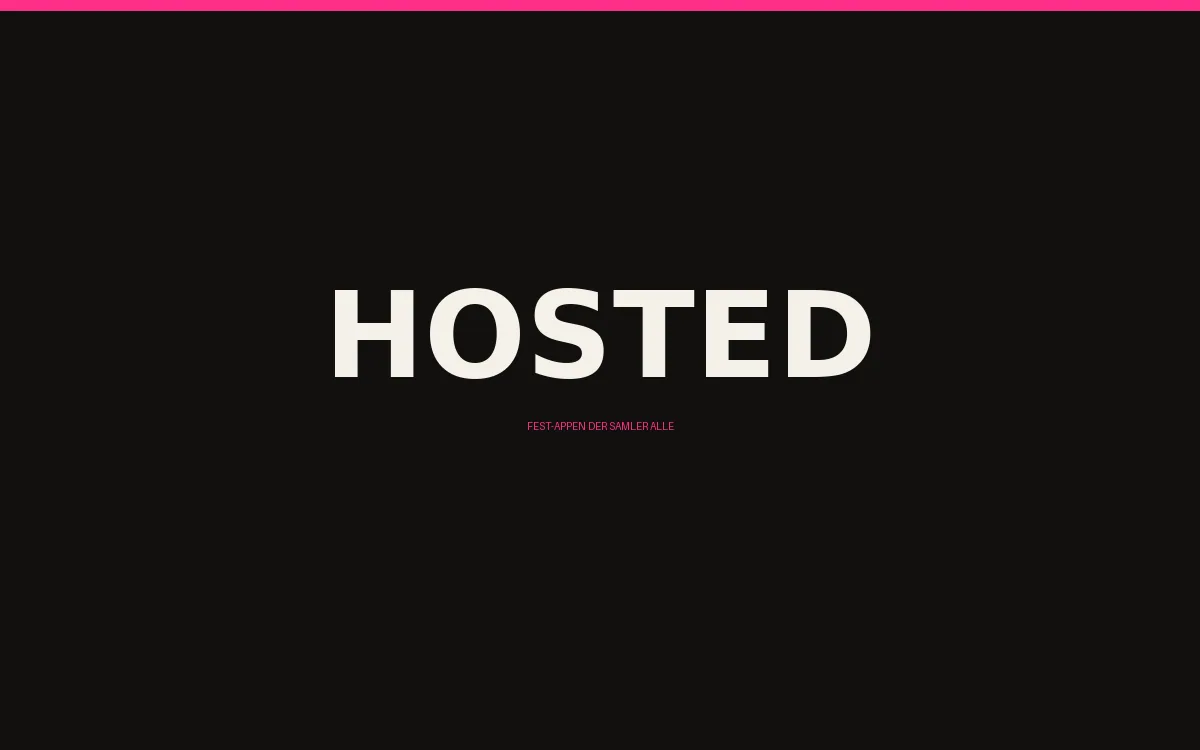
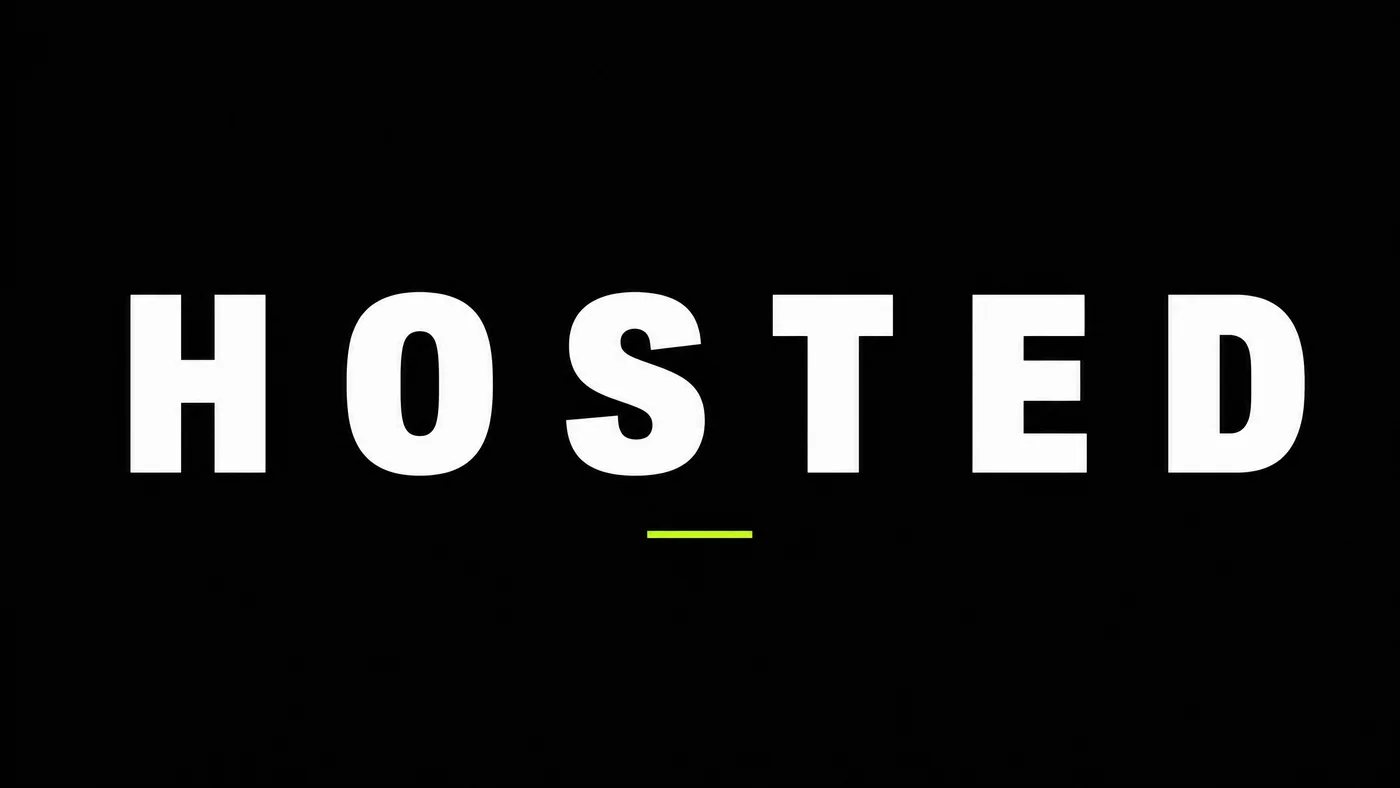
HOSTED med rigtigt brand
Logo, ikon og lime-accenten #CFF70E hentet fra brandmappen.
Cover er nu det rigtige wordmark, app-ikonet er det rigtige H-mærke.
To simulator-billeder med i casen — de fire sidste ligger stadig
kun i skyen.

diff --git a/nyt/index.html b/nyt/index.html
@@ -375,7 +375,7 @@ button{font-family:inherit}
 					</span>
 				</a>
 				<a class="thing ar-16-10" data-app="wordfestival" href="#"><span class="thing__m"><img src="img/word-festival-cover.webp" alt=""></span><span class="thing__t">Word Festival</span><span class="thing__s"><i style="background:var(--neon-blue)"></i>Programplanlægger · Figma</span><span class="thing__go">Åbn →</span></a>
-				<a class="thing ar-16-10" data-case="hosted" href="#"><span class="thing__m"><img src="img/hosted-cover.webp" alt=""></span><span class="thing__wip">I gang</span><span class="thing__t">HOSTED</span><span class="thing__s"><i style="background:var(--neon-pink)"></i>Eget produkt · app under udvikling</span><span class="thing__go">Åbn →</span></a>
+				<a class="thing ar-16-10" data-case="hosted" href="#"><span class="thing__m"><img src="img/hosted-cover.webp" alt=""></span><span class="thing__wip">I gang</span><span class="thing__t">HOSTED</span><span class="thing__s"><i style="background:#CFF70E"></i>Eget produkt · app under udvikling</span><span class="thing__go">Åbn →</span></a>
 				<a class="thing ar-16-10" data-case="dualitet" href="#"><span class="thing__m"><img src="img/dualitet-cover.webp" alt=""></span><span class="thing__wip">I gang</span><span class="thing__t">Dualitet</span><span class="thing__s"><i style="background:var(--neon-green)"></i>Podcast · under optagelse</span><span class="thing__go">Åbn →</span></a>
 				<a class="thing ar-16-10 fit" data-app="friendfinder" href="#"><span class="thing__m"><img src="img/friend-finder-logo.webp" alt=""></span><span class="thing__t">Friend Finder</span><span class="thing__s"><i style="background:var(--neon-blue)"></i>Prototype · workshop</span><span class="thing__go">Åbn →</span></a>
 			</div>
@@ -988,13 +988,14 @@ document.querySelectorAll(".thing[data-app]").forEach(t=>t.addEventListener("cli
 
 /* ── Cases ── */
 const CASES={
-	hosted:{farve:"var(--neon-pink)",mappe:"Digitalt design",hero:"img/hosted-cover.webp",titel:"HOSTED",
+	hosted:{farve:"#CFF70E",mappe:"Digitalt design",hero:"img/hosted-cover.webp",titel:"HOSTED",
 		lead:"En fest-app hvor værten opretter festen, gæsterne joiner med ét link i browseren, og alle spiller sammen fra deres egen telefon. Mit eget produkt — under udvikling.",
-		fakta:[["Type","Eget produkt · app"],["Status","Beta · under udvikling"],["Min rolle","Idé, design, brand og frontend"],["Website","hosted-web-five.vercel.app"]],
-		afsnit:[["Idéen","Fem spil — Impostor, Most Likely To, Kender du X, Turnering og kortspil — der alle starter på under tredive sekunder. Værten trykker start, gæsterne følger med live. Ingen skal downloade noget: man åbner et link, skriver sit navn, og er med."],["Det valg jeg er mest stolt af","Hvert spil har en drikke-indstilling per spiller. Vælger du fra, får du ingen slurke, men er stadig hundrede procent med i spillet. Der er også pakker helt uden alkohol — samtalekort, catch-up spørgsmål og lege der virker til familieaften. En festapp der ikke tvinger nogen til noget."]],
+		fakta:[["Type","Eget produkt · iOS-app og web"],["Status","Beta · under udvikling"],["Min rolle","Idé, brand, design og frontend"],["Brand","Sort, hvid versal, lime #CFF70E"]],
+		afsnit:[["Idéen","Fem spil — Impostor, Most Likely To, Kender du X, Turnering og kortspil — der alle starter på under tredive sekunder. Værten trykker start, gæsterne følger med live. Ingen skal downloade noget: man åbner et link, skriver sit navn, og er med."],["Brandet","Sort baggrund, hvid fed versaltypografi og én limegrøn accent. Det skulle ligne noget man har lyst til at åbne klokken elleve om aftenen — ikke en app til møder. Hvert spil har sin egen farve, så man kender dem på afstand: lime til Impostor, orange til Most Likely To, cyan til Turnering."],["Det valg jeg er mest stolt af","Hvert spil har en drikke-indstilling per spiller. Vælger du fra, får du ingen slurke, men er stadig hundrede procent med i spillet. Der er også pakker helt uden alkohol — samtalekort, catch-up spørgsmål og lege der virker til familieaften. En festapp der ikke tvinger nogen til noget."]],
 		citat:null,
-		efter:["Hvor den er nu","Landingssiden er live med venteliste, brand og tekst på dansk og engelsk. Appen selv bygges. Jeg opdaterer casen når der er noget at klikke på."],
-		shots:[],tal:[["5","spil"],["0","downloads for gæster"]],
+		efter:["Hvor den er nu","Appen kører i simulator med hjem, spil, fester og profil. Landingssiden er live med venteliste og tekst på både dansk og engelsk. Jeg opdaterer casen, når der er en beta man kan prøve."],
+		shots:["img/hosted-01.webp","img/hosted-02.webp"],
+		tal:[["5","spil"],["0","downloads for gæster"],["4","faneblade"]],
 		link:{url:"https://hosted-web-five.vercel.app/",tekst:"Se websitet →"}},
 	dualitet:{farve:"var(--neon-green)",mappe:"Digitalt design",hero:"img/dualitet-cover.webp",titel:"Dualitet",
 		lead:"En podcast jeg er i gang med. Mere om den, når der er noget at høre.",
